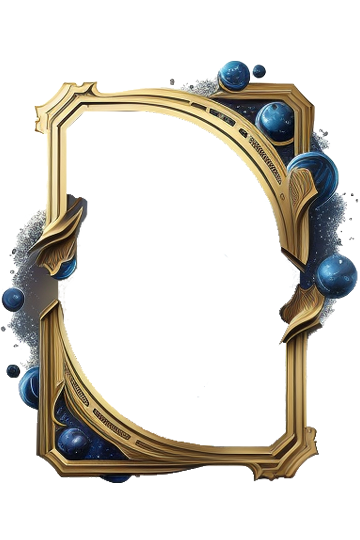
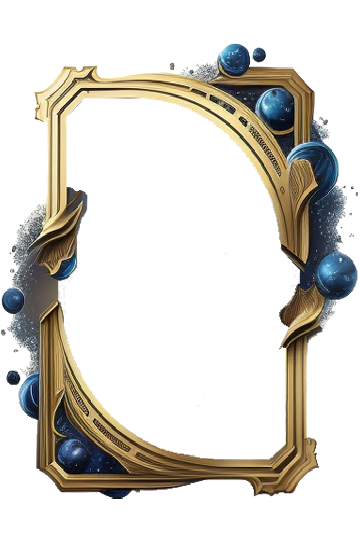
Changed AAG border

Changed region(s): [[0.0, 0.3259, 0.8861, 0.9481], [0.0917, 0.0593, 1.0, 0.5037], [0.7639, 0.5333, 0.9778, 0.6815]]

diff --git a/src/tcgHelper/createCard.js b/src/tcgHelper/createCard.js
@@ -20,15 +20,15 @@ module.exports = {
             })
             .extend({
                 // Pad the image w/ invisible pixels on all sides until its the same size as before
-                // top: Math.ceil((540 - newLength) / 2) - lengthShift,
-                // bottom: Math.floor((540 - newLength) / 2) + lengthShift,
-                // left: Math.ceil((360 - newWidth) / 2) - widthShift,
-                // right: Math.floor((360 - newWidth) / 2) + widthShift,
-                top: Math.ceil((540 - newLength) / 2),
-                bottom: Math.floor((540 - newLength) / 2),
-                left: Math.ceil((360 - newWidth) / 2),
-                right: Math.floor((360 - newWidth) / 2),
-                background: { r: 0, g: 0, b: 0, alpha: 0 }
+                top: Math.ceil((540 - newLength) / 2) - lengthShift,
+                bottom: Math.floor((540 - newLength) / 2) + lengthShift,
+                left: Math.ceil((360 - newWidth) / 2) - widthShift,
+                right: Math.floor((360 - newWidth) / 2) + widthShift,
+                // top: Math.ceil((540 - newLength) / 2),
+                // bottom: Math.floor((540 - newLength) / 2),
+                // left: Math.ceil((360 - newWidth) / 2),
+                // right: Math.floor((360 - newWidth) / 2),
+                // background: { r: 0, g: 0, b: 0, alpha: 0 }
             })
             .toBuffer()
             .catch(err => {

diff --git a/src/commands/tcg/claim.js b/src/commands/tcg/claim.js
@@ -27,8 +27,8 @@ module.exports = {
                     cards[i].id + borders[i].id,
                     cards[i].id,
                     borders[i].id,
-                    borders[i].newWidth,
-                    borders[i].newLength,
+                    300,
+                    450,
                     borders[i].lengthShift,
                     borders[i].widthShift,
                 ),
